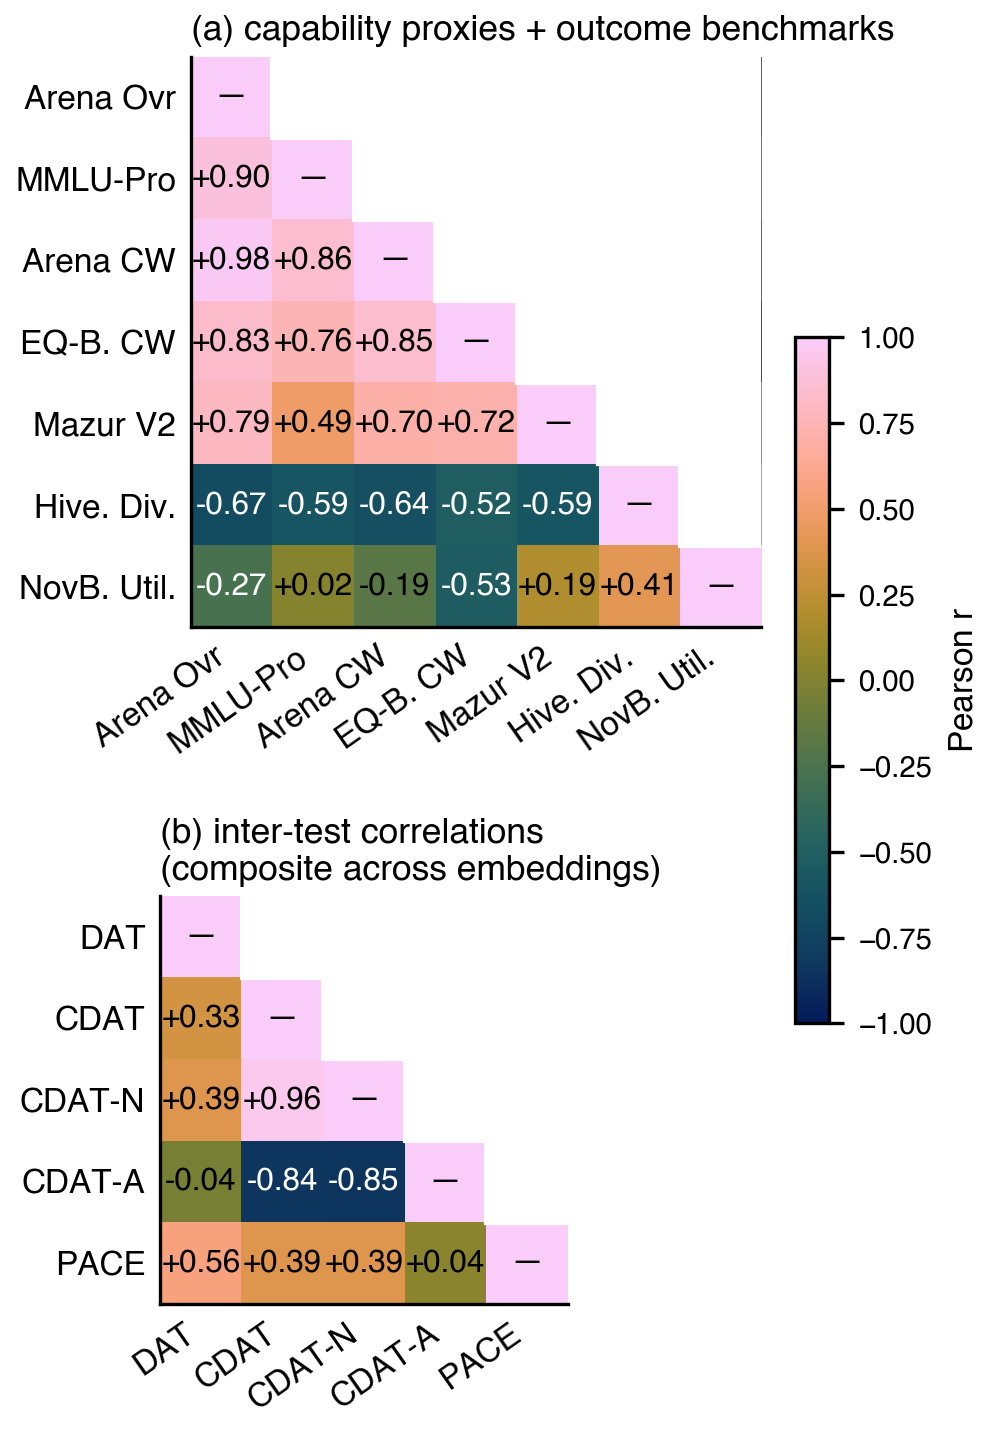
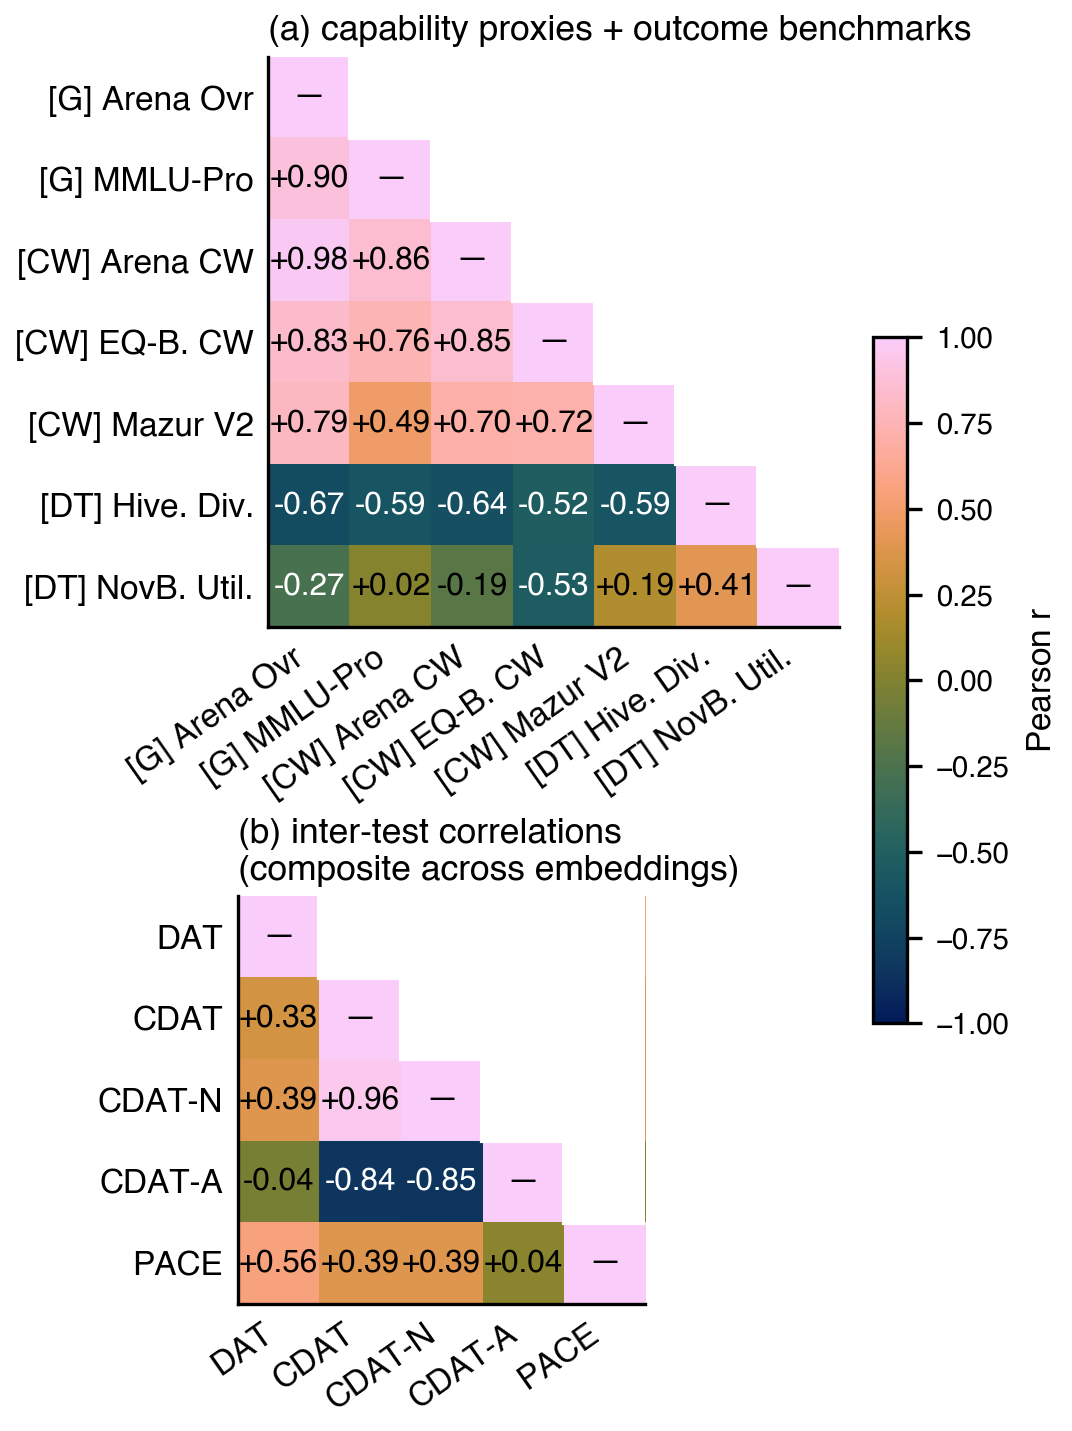
fig_benchmark_correlations: prefix labels with [G]/[CW]/[DT] tags
Panel (a) labels now show the benchmark category up front:
  [G]   general capability  (Arena Ovr, MMLU-Pro)
  [CW]  creative writing    (Arena CW, EQ-B. CW, Mazur V2)
  [DT]  divergent thinking  (Hive. Div., NovB. Util.)

Also save the figure to papers/iccc-2026/figures/ alongside the
report copy, like the other paper figures.

Changed region(s): [[0.0, 0.0, 0.9044, 0.9839], [0.7485, 0.2152, 0.998, 0.7379], [0.5614, 0.8302, 0.6237, 0.9224]]

diff --git a/src/dat_eval/scripts/make_figures.py b/src/dat_eval/scripts/make_figures.py
@@ -873,8 +873,11 @@ def fig_benchmark_correlations(benchmarks):
     # Panel (a): capability proxies + outcome benchmarks (unchanged logic)
     keys_a = ["arena_overall", "mmlu_pro", "arena_cw", "eq_bench_cw",
               "mazur_cw_v2", "hivemind_diversity", "noveltybench_utility"]
-    labels_a = ["Arena Ovr", "MMLU-Pro", "Arena CW", "EQ-B. CW",
-                "Mazur V2", "Hive. Div.", "NovB. Util."]
+    # Prefix tags: [G] general capability, [CW] creative writing,
+    # [DT] divergent thinking.
+    labels_a = ["[G] Arena Ovr", "[G] MMLU-Pro",
+                "[CW] Arena CW", "[CW] EQ-B. CW", "[CW] Mazur V2",
+                "[DT] Hive. Div.", "[DT] NovB. Util."]
     na = len(keys_a)
     mat_a = np.full((na, na), np.nan)
     for i, ki in enumerate(keys_a):
@@ -960,11 +963,13 @@ def fig_benchmark_correlations(benchmarks):
     cbar.set_label("Pearson $r$", fontsize=8)
     cbar.ax.tick_params(labelsize=7)
 
-    out = FIGS_DIR / "fig_benchmark_correlations.pdf"
-    plt.savefig(out, bbox_inches="tight")
-    plt.savefig(out.with_suffix(".png"), bbox_inches="tight")
+    for out_dir in [FIGS_DIR, PAPER_FIGS_DIR]:
+        out_dir.mkdir(parents=True, exist_ok=True)
+        out = out_dir / "fig_benchmark_correlations.pdf"
+        plt.savefig(out, bbox_inches="tight")
+        plt.savefig(out.with_suffix(".png"), bbox_inches="tight")
+        print(f"Saved {out}")
     plt.close()
-    print(f"Saved {out}")
 
 
 def fig_inter_metric_triangle(corr):
